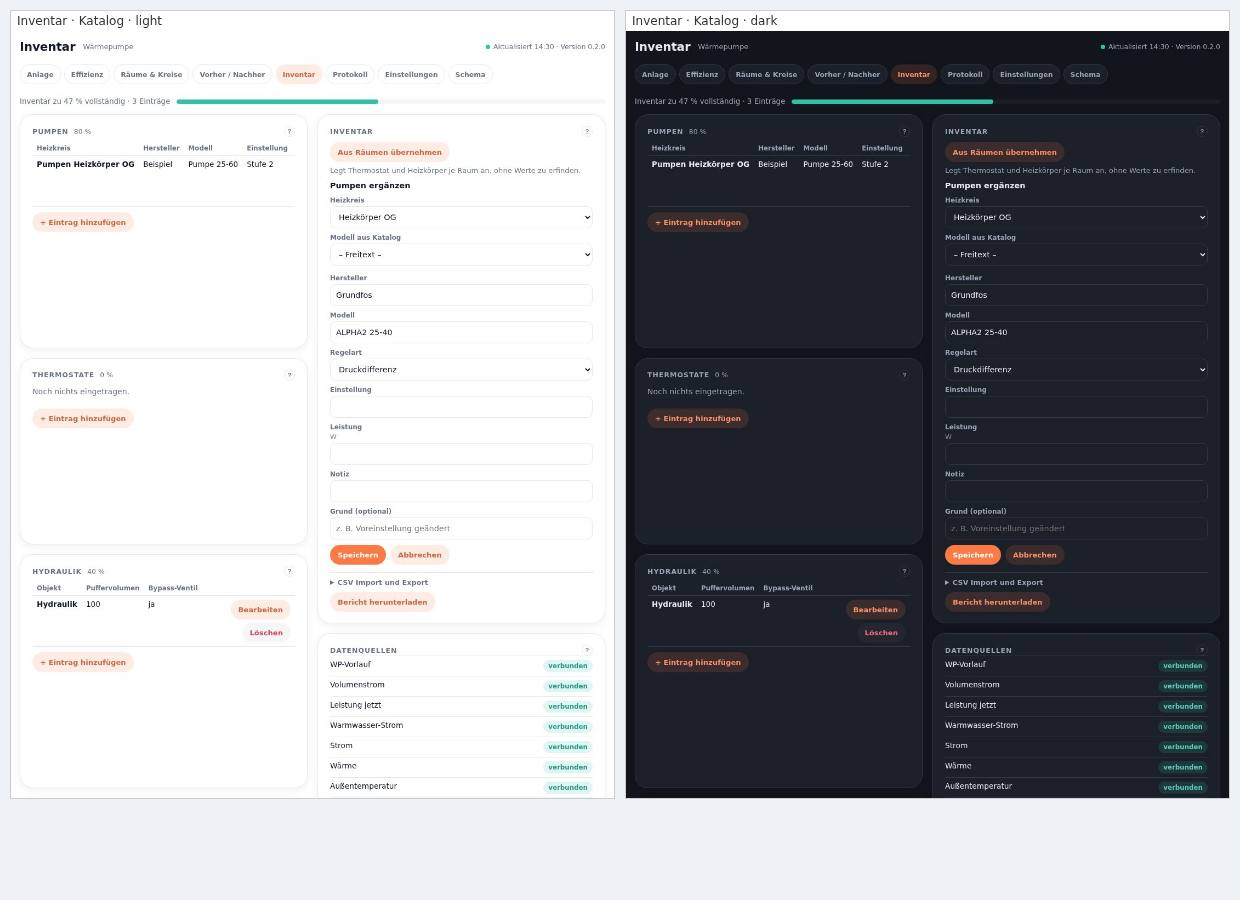
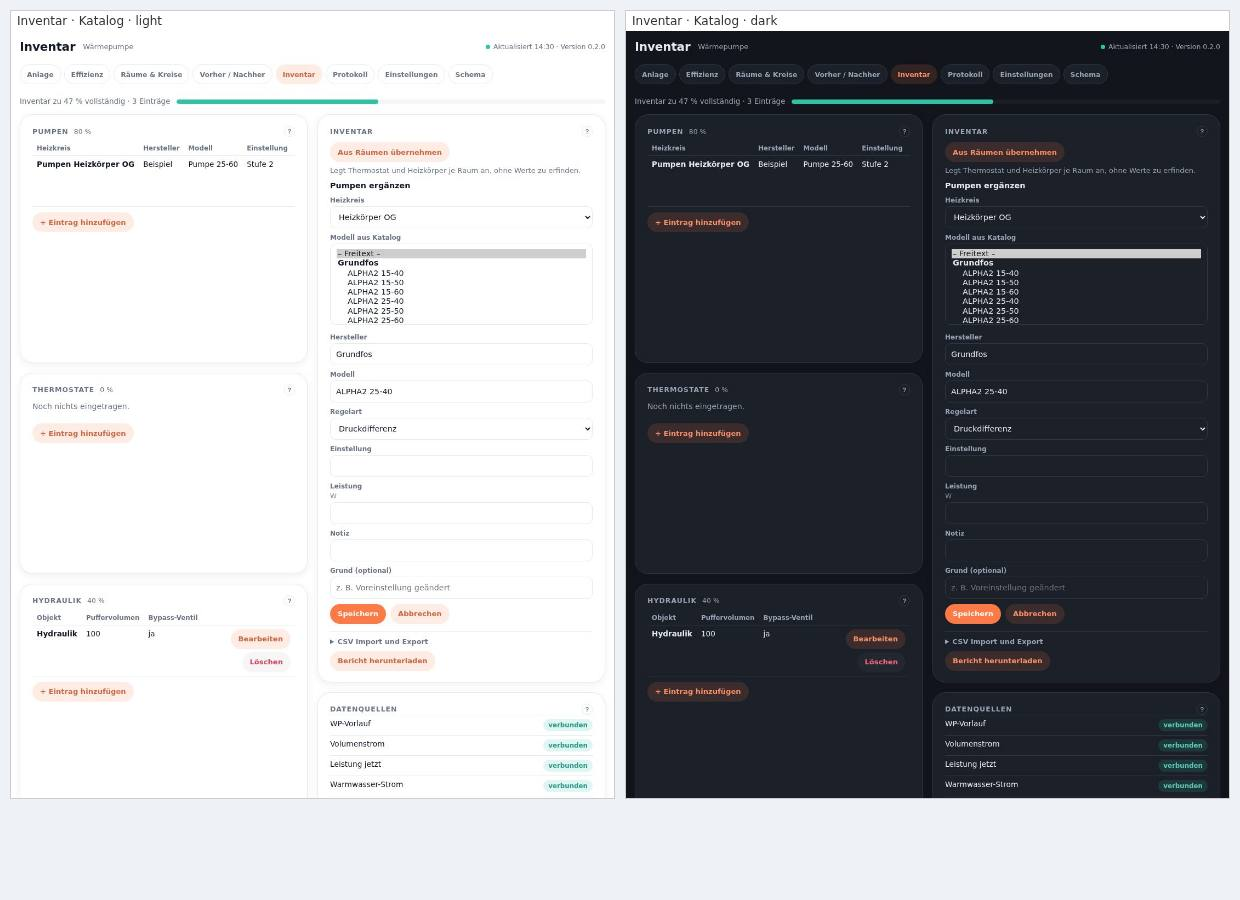
0.7.0b5: Katalog auf 28 Eintraege erweitert
22 Pumpen (Grundfos ALPHA2/ALPHA3 15-40 bis 32-60, MAGNA3 32-60
und 40-80, Wilo Yonos PICO 25/1-4 und 25/1-6) und 6 Ventile
(Danfoss RA-N 10/15/20/25, Oventrop AV 6 und AV 9). Werte aus
den verlinkten Datenblaettern. Korrektur: AV 6 hatte zuvor die
kv-Werte der Baureihe F.

diff --git a/custom_components/heizungsanalyse/www/heizungsanalyse-card.js b/custom_components/heizungsanalyse/www/heizungsanalyse-card.js
@@ -1,7 +1,7 @@
-/* Heizungsanalyse 0.7.0b4 - gebaut aus frontend/src (npm run build). Nicht von Hand bearbeiten. */
+/* Heizungsanalyse 0.7.0b5 - gebaut aus frontend/src (npm run build). Nicht von Hand bearbeiten. */
 (() => {
   // src/version.js
-  var HA_VERSION = "0.7.0b4";
+  var HA_VERSION = "0.7.0b5";
 
   // src/i18n.js
   var EN = {

diff --git a/frontend/src/version.js b/frontend/src/version.js
@@ -1,2 +1,2 @@
 // Wird von build.mjs aus der manifest.json gesetzt - nicht von Hand aendern
-export const HA_VERSION = "0.7.0b4";
+export const HA_VERSION = "0.7.0b5";

diff --git a/custom_components/heizungsanalyse/catalog.py b/custom_components/heizungsanalyse/catalog.py
@@ -17,111 +17,218 @@ _NOTE = {
     "en": "Values from manufacturer datasheets (maximum values). Sizing depends on the system; please check the nameplate.",
 }
 
-PUMPS: list[dict[str, Any]] = [
-    {
-        "id": "grundfos-alpha2-25-40",
-        "manufacturer": "Grundfos",
-        "series": "ALPHA2",
-        "model": "ALPHA2 25-40",
-        "fields": {
-            "manufacturer": "Grundfos",
-            "model": "ALPHA2 25-40",
-            "control_mode": "dp",
-            "setting": "AUTOADAPT; PP/CP; Stufen I–III",
-            "power_w": 18,
-            "flow_m3h": 2.4,
-            "max_head_m": 4.0,
-        },
-        "source": "https://api.grundfos.com/literature/Grundfosliterature-6014960.pdf",
-        "note": {
-            "de": "P1 3–18 W, max. Förderstrom 2,4 m³/h, max. Förderhöhe 4 m (Datenblatt ALPHA2, 25-40).",
-            "en": "P1 3–18 W, max. flow 2.4 m³/h, max. head 4 m (ALPHA2 datasheet, 25-40).",
-        },
-    },
-    {
-        "id": "wilo-yonos-pico-25-1-4",
-        "manufacturer": "Wilo",
-        "series": "Yonos PICO",
-        "model": "Yonos PICO 25/1-4",
-        "fields": {
-            "manufacturer": "Wilo",
-            "model": "Yonos PICO 25/1-4",
-            "control_mode": "dp",
-            "setting": "Δp-v/Δp-c; Konstantdrehzahl I–III",
-            "power_w": 20,
-            "flow_m3h": 2.7,
-            "max_head_m": 4.3,
-        },
-        "source": "https://wilo.com/gb/en/Products/en/products/yonos-pico_id199/4215513",
-        "note": {
-            "de": "P1 4–20 W, max. Förderstrom 2,7 m³/h, max. Förderhöhe 4,3 m (Wilo-Datenblatt 25/1-4).",
-            "en": "P1 4–20 W, max. flow 2.7 m³/h, max. head 4.3 m (Wilo datasheet 25/1-4).",
-        },
-    },
-    {
-        "id": "wilo-yonos-pico-25-1-6",
-        "manufacturer": "Wilo",
-        "series": "Yonos PICO",
-        "model": "Yonos PICO 25/1-6",
-        "fields": {
-            "manufacturer": "Wilo",
-            "model": "Yonos PICO 25/1-6",
-            "control_mode": "dp",
-            "setting": "Δp-v/Δp-c; Konstantdrehzahl I–III",
-            "power_w": 40,
-            "flow_m3h": 3.6,
-            "max_head_m": 6.0,
-        },
-        "source": "https://wilo.com/gb/en/Products/en/products/yonos-pico_id199/4215515",
-        "note": {
-            "de": "P1 4–40 W, max. Förderstrom 3,6 m³/h, max. Förderhöhe 6 m (Wilo-Datenblatt 25/1-6).",
-            "en": "P1 4–40 W, max. flow 3.6 m³/h, max. head 6 m (Wilo datasheet 25/1-6).",
-        },
-    },
+_ALPHA23_SOURCE = "https://api.grundfos.com/literature/Grundfosliterature-6154247.pdf"
+_MAGNA3_SOURCE = (
+    "https://www.gogrundfos.com/hubfs/GRUNDFOS%20PRODUCT%20GUIDES/Magna3%20Product%20Guide.pdf?hsLang=en"
+)
+_WILO_PICO_SOURCE = "https://wilo.com/gb/en/Products/en/products/yonos-pico_id199"
+_RA_N_SOURCE = "https://assets.danfoss.com/documents/latest/560607/AI003086404253en-010202.pdf"
+_AV_SOURCE = "https://download.sankom.net/dk/documentation/oventrop/dane%20techniczne/01%20armatura%20grzejnikowa/db_1183763_de.pdf"
+
+#: Förderstrom, Förderhöhe und P1 je Baureihe (Grundfos ALPHA2/ALPHA3, Datenblatt 6154247).
+_ALPHA23_MODELS = [
+    ("15-40", 2.4, 4.0, 18),
+    ("15-50", 2.8, 5.0, 26),
+    ("15-60", 3.0, 6.0, 34),
+    ("25-40", 2.4, 4.0, 18),
+    ("25-50", 2.8, 5.0, 26),
+    ("25-60", 3.0, 6.0, 34),
+    ("32-40", 2.4, 4.0, 18),
+    ("32-50", 2.8, 5.0, 26),
+    ("32-60", 3.0, 6.0, 34),
 ]
 
-_RA_N15_KV = [0.04, 0.09, 0.16, 0.25, 0.36, 0.43, 0.52]
-_RA_N10_KV = [0.04, 0.08, 0.12, 0.19, 0.25, 0.33, 0.38]
-_RA_N20_KV = [0.10, 0.15, 0.17, 0.26, 0.35, 0.46, 0.73]
-_OVENTROP_AV6_KV = [0.025, 0.051, 0.095, 0.152, 0.228, 0.323]
+#: MAGNA3: max. Förderstrom aus der Kurvenachse (US gpm umgerechnet), P1 max.
+_MAGNA3_MODELS = [
+    ("32-60", 9.1, 6.0, 106),
+    ("40-80", 20.4, 8.0, 274),
+]
 
-def _danfoss(model: str, presets: list[float], kvs: float, series: str = "RA-N") -> dict[str, Any]:
-    table = ", ".join(f"{index + 1}: {value:.2f}".replace(".", ",") for index, value in enumerate(presets))
+_RA_N_MODELS = [
+    ("10", [0.04, 0.08, 0.12, 0.19, 0.25, 0.33, 0.38], 0.56, 0.65),
+    ("15", [0.04, 0.09, 0.16, 0.25, 0.36, 0.43, 0.52], 0.73, 0.90),
+    ("20", [0.10, 0.15, 0.17, 0.26, 0.35, 0.46, 0.73], 1.04, 1.40),
+    ("25", [0.10, 0.15, 0.17, 0.26, 0.35, 0.46, 0.73], 1.04, 1.40),
+]
+
+
+def _pump(
+    manufacturer: str,
+    series: str,
+    model: str,
+    power_w: int,
+    flow_m3h: float,
+    max_head_m: float,
+    control_mode: str,
+    setting: str,
+    source: str,
+    note_de: str,
+    note_en: str,
+) -> dict[str, Any]:
     return {
-        "id": f"danfoss-{model.lower().replace(' ', '-').replace('/', '-')}",
-        "manufacturer": "Danfoss",
+        "id": f"{manufacturer.lower()}-{model.lower().replace(' ', '-').replace('/', '-')}",
+        "manufacturer": manufacturer,
         "series": series,
         "model": model,
-        "fields": {"model": model},
-        "presets": {str(index + 1): value for index, value in enumerate(presets)},
-        "kvs": kvs,
-        "source": "https://assets.danfoss.com/documents/latest/560607/AI003086404253en-010202.pdf",
-        "note": {
-            "de": f"Voreinstellung kv (m³/h): {table}; N = {kvs:.2f} (Datenblatt RA-N, mit RA-2000-Fühler, Xp = 2 K).",
-            "en": f"Preset kv (m³/h): {table}; N = {kvs:.2f} (RA-N datasheet, with RA 2000 sensor, Xp = 2 K).",
+        "fields": {
+            "manufacturer": manufacturer,
+            "model": model,
+            "control_mode": control_mode,
+            "setting": setting,
+            "power_w": power_w,
+            "flow_m3h": flow_m3h,
+            "max_head_m": max_head_m,
         },
+        "source": source,
+        "note": {"de": note_de, "en": note_en},
     }
 
 
-THERMOSTATS: list[dict[str, Any]] = [
-    _danfoss("RA-N 10", _RA_N10_KV, 0.65),
-    _danfoss("RA-N 15", _RA_N15_KV, 0.90),
-    _danfoss("RA-N 20", _RA_N20_KV, 1.40),
-    {
-        "id": "oventrop-av-6",
-        "manufacturer": "Oventrop",
-        "series": "AV 6",
-        "model": "AV 6",
-        "fields": {"model": "AV 6"},
-        "presets": {str(index + 1): value for index, value in enumerate(_OVENTROP_AV6_KV)},
-        "kvs": None,
-        "source": "https://download.sankom.net/dk/documentation/oventrop/dane%20techniczne/01%20armatura%20grzejnikowa/db_1183763_de.pdf",
-        "note": {
-            "de": "Voreinstellung kv (m³/h): 1: 0,025, 2: 0,051, 3: 0,095, 4: 0,152, 5: 0,228, 6: 0,323 (Datenblatt AV 6, 2 K P-Abweichung).",
-            "en": "Preset kv (m³/h): 1: 0.025, 2: 0.051, 3: 0.095, 4: 0.152, 5: 0.228, 6: 0.323 (AV 6 datasheet, 2 K P-deviation).",
-        },
-    },
-]
+def _alpha23(manufacturer: str, series: str) -> list[dict[str, Any]]:
+    entries = []
+    for model, flow, head, power in _ALPHA23_MODELS:
+        entries.append(
+            _pump(
+                manufacturer,
+                series,
+                f"{series} {model}",
+                power,
+                flow,
+                head,
+                "dp",
+                "AUTOADAPT; PP/CP; Stufen I–III",
+                _ALPHA23_SOURCE,
+                f"P1 max. {power} W, max. Förderstrom {flow:.1f} m³/h, max. Förderhöhe {head:.1f} m (Datenblatt {series}).",
+                f"P1 max. {power} W, max. flow {flow:.1f} m³/h, max. head {head:.1f} m ({series} datasheet).",
+            )
+        )
+    return entries
+
+
+def _magna3() -> list[dict[str, Any]]:
+    entries = []
+    for model, flow, head, power in _MAGNA3_MODELS:
+        entries.append(
+            _pump(
+                "Grundfos",
+                "MAGNA3",
+                f"MAGNA3 {model}",
+                power,
+                flow,
+                head,
+                "dp",
+                "AUTOADAPT; PP/CP; 0–10 V",
+                _MAGNA3_SOURCE,
+                f"P1 max. {power} W, max. Förderhöhe {head:.1f} m, max. Förderstrom {flow:.1f} m³/h (Kurvenachse, Datenblatt MAGNA3).",
+                f"P1 max. {power} W, max. head {head:.1f} m, max. flow {flow:.1f} m³/h (curve axis, MAGNA3 datasheet).",
+            )
+        )
+    return entries
+
+
+def _wilo_pico() -> list[dict[str, Any]]:
+    models = [
+        ("25/1-4", 20, 2.7, 4.3, "4215513"),
+        ("25/1-6", 40, 3.6, 6.0, "4215515"),
+    ]
+    entries = []
+    for model, power, flow, head, article in models:
+        entries.append(
+            _pump(
+                "Wilo",
+                "Yonos PICO",
+                f"Yonos PICO {model}",
+                power,
+                flow,
+                head,
+                "dp",
+                "Δp-v/Δp-c; Konstantdrehzahl I–III",
+                f"{_WILO_PICO_SOURCE}/{article}",
+                f"P1 {power} W, max. Förderstrom {flow:.1f} m³/h, max. Förderhöhe {head:.1f} m (Wilo-Datenblatt {model}).",
+                f"P1 {power} W, max. flow {flow:.1f} m³/h, max. head {head:.1f} m (Wilo datasheet {model}).",
+            )
+        )
+    return entries
+
+
+PUMPS: list[dict[str, Any]] = (
+    _alpha23("Grundfos", "ALPHA2") + _alpha23("Grundfos", "ALPHA3") + _magna3() + _wilo_pico()
+)
+
+
+def _valve(manufacturer: str, series: str, model: str, presets: dict[str, float], kvs: float | None, source: str, note_de: str, note_en: str) -> dict[str, Any]:
+    return {
+        "id": f"{manufacturer.lower()}-{model.lower().replace(' ', '-').replace('/', '-')}",
+        "manufacturer": manufacturer,
+        "series": series,
+        "model": model,
+        "fields": {"model": model},
+        "presets": presets,
+        "kvs": kvs,
+        "source": source,
+        "note": {"de": note_de, "en": note_en},
+    }
+
+
+def _ra_n() -> list[dict[str, Any]]:
+    entries = []
+    for size, values, kv_n, kvs in _RA_N_MODELS:
+        presets = {str(index + 1): value for index, value in enumerate(values)}
+        presets["N"] = kv_n
+        table = ", ".join(f"{index + 1}: {value:.2f}".replace(".", ",") for index, value in enumerate(values))
+        entries.append(
+            _valve(
+                "Danfoss",
+                "RA-N",
+                f"RA-N {size}",
+                presets,
+                kvs,
+                _RA_N_SOURCE,
+                f"Voreinstellung kv (m³/h): {table}; N = {kv_n:.2f}; kvs = {kvs:.2f} (Datenblatt RA-N, Xp = 2 K).",
+                f"Preset kv (m³/h): {table}; N = {kv_n:.2f}; kvs = {kvs:.2f} (RA-N datasheet, Xp = 2 K).",
+            )
+        )
+    return entries
+
+
+_AV6_VALUES = [0.055, 0.170, 0.313, 0.446, 0.560, 0.652]
+_AV9_VALUES = [0.050, 0.090, 0.130, 0.180, 0.240, 0.310, 0.410, 0.550, 0.670]
+
+
+def _oventrop() -> list[dict[str, Any]]:
+    return [
+        _valve(
+            "Oventrop",
+            "AV 6",
+            "AV 6",
+            {str(index + 1): value for index, value in enumerate(_AV6_VALUES)},
+            None,
+            _AV_SOURCE,
+            "Voreinstellung kv (m³/h) bei 2 K P-Abweichung: "
+            + ", ".join(f"{index + 1}: {value:.3f}".replace(".", ",") for index, value in enumerate(_AV6_VALUES))
+            + " (Datenblatt AV 6, Baureihe AV 6/RFV 6/ADV 6).",
+            "Preset kv (m³/h) at 2 K P-deviation: "
+            + ", ".join(f"{index + 1}: {value:.3f}" for index, value in enumerate(_AV6_VALUES))
+            + " (AV 6 datasheet, series AV 6/RFV 6/ADV 6).",
+        ),
+        _valve(
+            "Oventrop",
+            "AV 9",
+            "AV 9",
+            {str(index + 1): value for index, value in enumerate(_AV9_VALUES)},
+            None,
+            _AV_SOURCE,
+            "Voreinstellung kv (m³/h) bei 2 K P-Abweichung: "
+            + ", ".join(f"{index + 1}: {value:.3f}".replace(".", ",") for index, value in enumerate(_AV9_VALUES))
+            + " (Datenblatt AV 9).",
+            "Preset kv (m³/h) at 2 K P-deviation: "
+            + ", ".join(f"{index + 1}: {value:.3f}" for index, value in enumerate(_AV9_VALUES))
+            + " (AV 9 datasheet).",
+        ),
+    ]
+
+
+THERMOSTATS: list[dict[str, Any]] = _ra_n() + _oventrop()
 
 
 def inventory_catalog() -> dict[str, Any]:

diff --git a/CHANGELOG.md b/CHANGELOG.md
@@ -1,3 +1,14 @@
+## 0.7.0b5 – 2026-11-18
+
+### Neu
+- **Katalog deutlich erweitert** (22 Pumpen, 6 Thermostatventile): Grundfos
+  ALPHA2 und ALPHA3 (15-40 bis 32-60), MAGNA3 32-60 und 40-80, Wilo Yonos PICO
+  25/1-4 und 25/1-6, Danfoss RA-N 10/15/20/25, Oventrop AV 6 und AV 9.
+- **Korrektur Oventrop AV 6**: Die bisher hinterlegten kv-Werte gehörten zur
+  Baureihe F. Jetzt stehen die AV-6-Werte bei 2 K P-Abweichung im Katalog.
+- Jeder Eintrag nennt Quelle und Datenblattbezug; die Werte sind
+  Maximalwerte, keine Auslegung.
+
 ## 0.7.0b4 – 2026-11-18
 
 ### Neu
